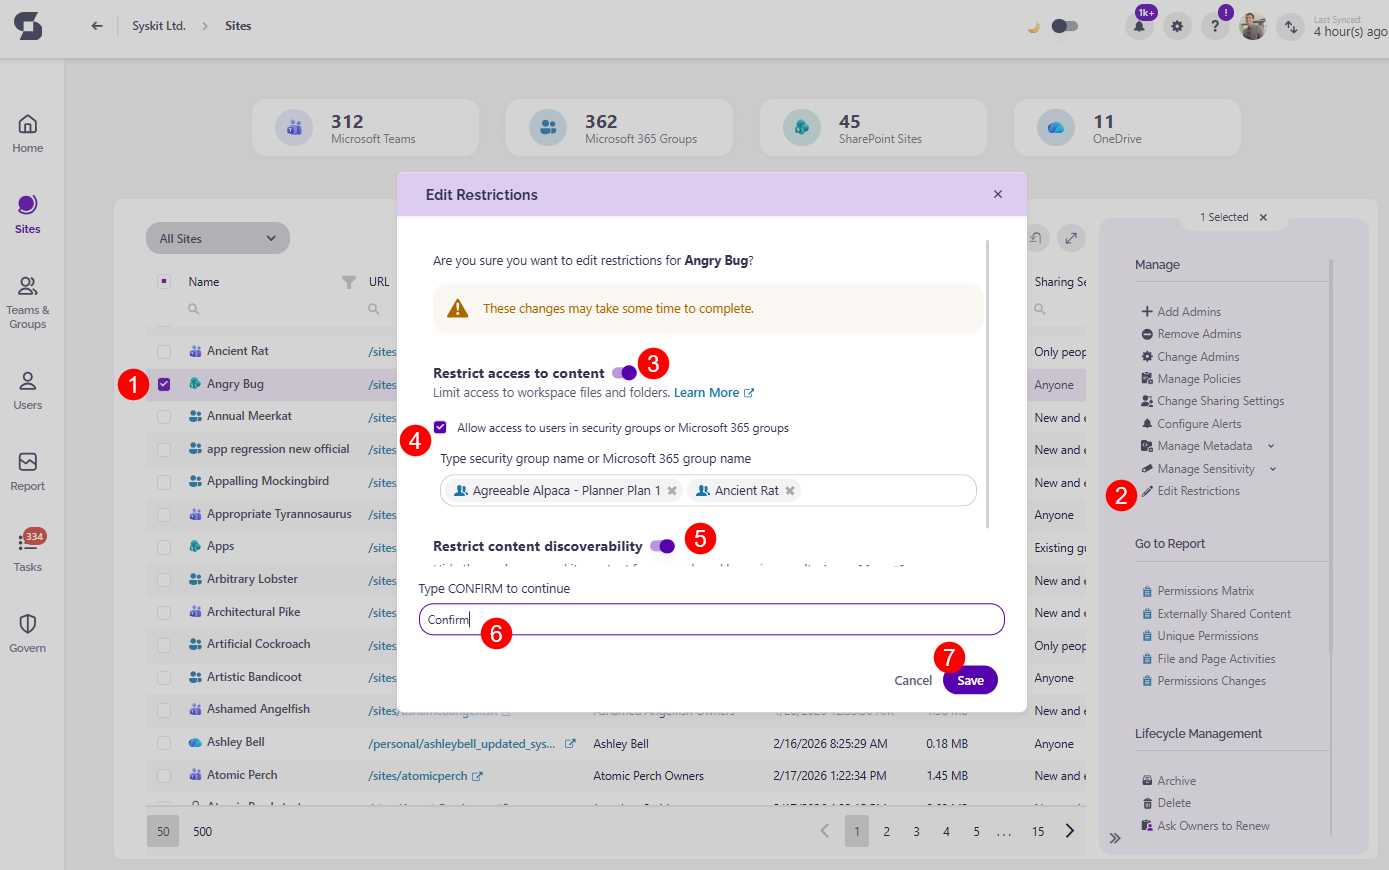
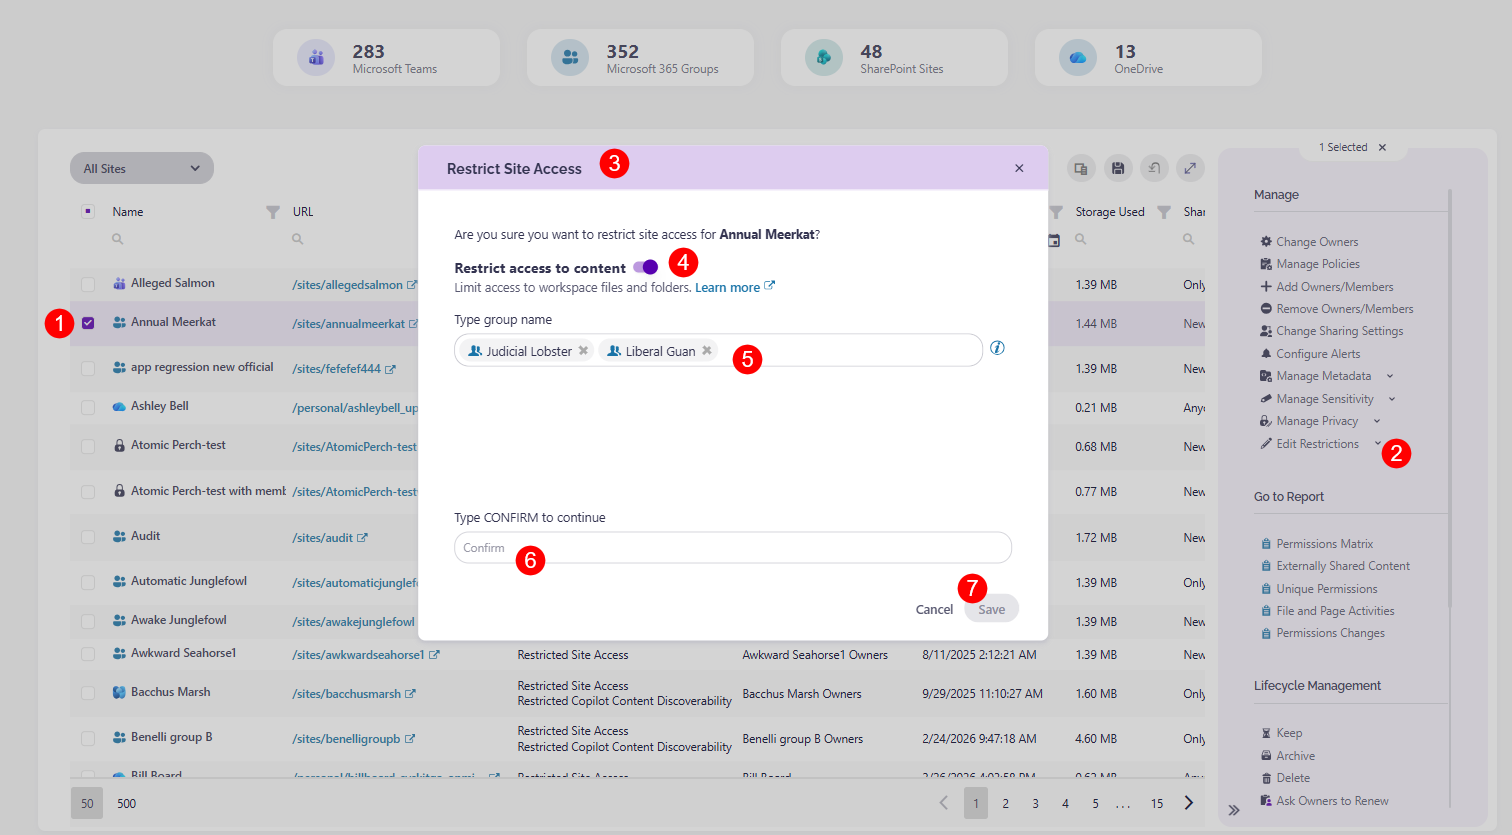
restrictions update

diff --git a/docs/access-management/restrictions.md b/docs/access-management/restrictions.md
@@ -8,9 +8,9 @@ description: This article explains how to edit restrictions on your workspaces w
 
 With **the new Restrictions column on the Site Overview screen**, you can now easily view whether a site has: 
 
-* **Restricted Access**, if access to the site is restricted to members of whitelisted groups 
-* **Restricted Content Discoverability**, if site content is exempt from Microsoft 365 Copilot
-* **Restricted Access and Restricted Content Discoverability**, if both restrictions are applied to the site
+* **Restricted SiteAccess**, if access to the site is restricted to members of whitelisted groups 
+* **Restricted Copilot Content Discoverability**, if site content is exempt from Microsoft 365 Copilot
+* **Restricted Site Access and Restricted Copilot Content Discoverability**, if both restrictions are applied to the site
 * **No Restrictions**, if no access restrictions are applied to the site.
 
 By using **the Edit Restrictions action**, located on the **Site Overview and Site Details screens**, you can update these settings for selected sites and choose whether to restrict access to content, restrict content discoverability, both, or leave a workspace without restrictions.
@@ -20,7 +20,7 @@ By using **the Edit Restrictions action**, located on the **Site Overview and Si
 ![Edit Restrictions](../../static/img/restrictions-action.png)
 
 
-## Restrict access to content
+## Restrict Site Access to Content
 
 Restricting access to content prevents oversharing by limiting access to a SharePoint site and its content to specific groups.
 
@@ -41,17 +41,18 @@ For more details, take a look at this Microsoft article: [Restrict SharePoint si
 In Syskit Point, you can restrict access to content by doing the following: 
 * On the Sites Overview screen, **select a workspace (1)**
 * **Click the Edit Restrictions button (2)** on the right side
-* The Edit Restrictions dialog opens, where you can:
-  * **Turn the toggle on to Restrict access to content (3)** - this limits access to workspace files and folders
-    * To allow access to users in security groups or Microsoft 365 groups, **click the checkbox (4)** and enter the name of the groups
-  * Additionally, if you want to also restrict content discoverability, you can **turn the toggle on to Restrict content discoverability (5)** - this hides the workspace and its content from search and browsing results
-    * If you do not want to restrict content discoverability, ensure the toggle is turned off
+   * **Select Restrict Site Access** from the dropdown
+* The **Restrict Site Access dialog opens (3)**, where you can:
+  * **Turn the toggle on to Restrict access to content (4)** - this limits access to workspace files and folders
+  * **Enter the names of the groups (5)** you want to retain access when restrictions are enabled in the available space
+    * Your site's connected Microsoft 365 Group is pre-filled as a starting point, however it can be removed, and/or additional groups can be added
+    * Only the groups added to the list are able to access contect when restrictions are enabled
   * **Type Confirm (6)** to continue
   * **Click Save (7)** to finalize your selection
 
 ![Edit Restrictions - Restrict access to content](../../static/img/restrictions-access-to-content.png)
 
-## Restrict content discoverability
+## Restrict Content from M365 Copilot
 
 Restricting content discoverability limits how SharePoint site content appears in organization-wide search and Microsoft 365 Copilot. When enabled for a site, the site's content does not appear in a tenant-wide search, such as the SharePoint home page or Bing, unless a user has recently interacted with it.
 
@@ -64,12 +65,10 @@ For more details, take a look at this Microsoft article: [Restrict discovery of 
 In Syskit Point, you can restrict content discoverability: 
 * On the Sites Overview screen, **select a workspace (1)**
 * **Click the Edit Restrictions button (2)** on the right side
-* The Edit Restrictions dialog opens, where you can:
-  * **Turn the toggle on to Restrict content discoverability (3)** - this hides the workspace and its content from search and browsing results
-  * Additionally, if you want to also restrict access to content, you can **turn the toggle on to Restrict access to content (4)** - this limits access to workspace files and folders
-    * To allow access to users in security groups or Microsoft 365 groups, **click the checkbox (5)** and enter the name of the groups
-    * If you do not want to restrict access to content, ensure the toggle is turned off
-  * **Type Confirm (6)** to continue
-  * **Click Save (7)** to finalize your selection
+  * **Select Restrict Content from M365 Copilot** from the dropdown
+* The **Restrict Content from M365 Copilot dialog opens (3)**, where you can:
+  * **Turn the toggle on to Restrict content discoverability (4)** - this hides the workspace and its content from search and browsing results
+  * **Type Confirm (5)** to continue
+  * **Click Save (6)** to finalize your selection
 
 ![Edit Restrictions - Restrict access to content](../../static/img/restrictions-content-discoverability.png)
